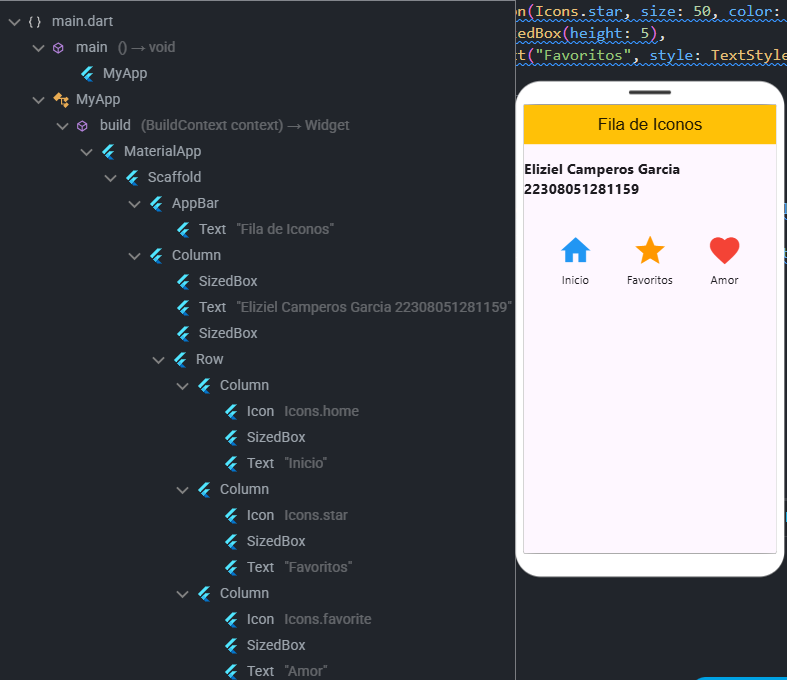
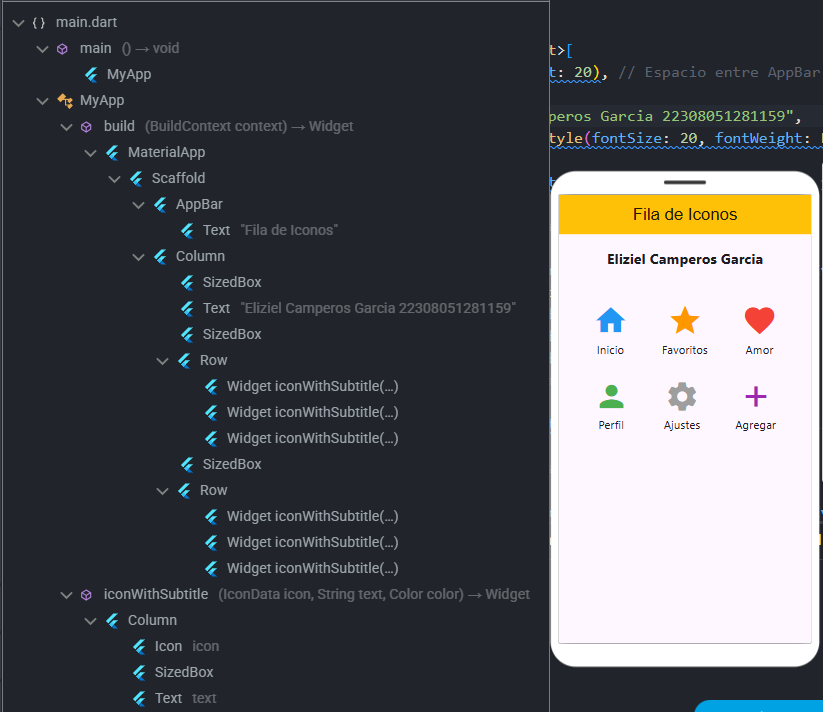
s76742

diff --git a/lib/main.dart b/lib/main.dart
@@ -20,44 +20,45 @@ class MyApp extends StatelessWidget {
           children: <Widget>[
             SizedBox(height: 20), // Espacio entre AppBar y texto
             Text(
-              "Eliziel Camperos Garcia 22308051281159",
+              "Eliziel Camperos Garcia",
               style: TextStyle(fontSize: 20, fontWeight: FontWeight.bold),
             ),
-            SizedBox(height: 50), // Espacio entre texto y fila de iconos
+            SizedBox(height: 50), // Espacio entre texto y filas de iconos
+
+            // Primera fila de iconos
             Row(
               mainAxisAlignment: MainAxisAlignment.spaceEvenly,
               children: <Widget>[
-                // Icono 1 - Casa
-                Column(
-                  children: [
-                    Icon(Icons.home, size: 50, color: Colors.blue),
-                    SizedBox(height: 5), // Espacio entre icono y texto
-                    Text("Inicio", style: TextStyle(fontSize: 16)),
-                  ],
-                ),
+                iconWithSubtitle(Icons.home, "Inicio", Colors.blue),
+                iconWithSubtitle(Icons.star, "Favoritos", Colors.orange),
+                iconWithSubtitle(Icons.favorite, "Amor", Colors.red),
+              ],
+            ),
+            SizedBox(height: 30), // Espacio entre las filas
 
-                // Icono 2 - Estrella
-                Column(
-                  children: [
-                    Icon(Icons.star, size: 50, color: Colors.orange),
-                    SizedBox(height: 5),
-                    Text("Favoritos", style: TextStyle(fontSize: 16)),
-                  ],
-                ),
-
-                // Icono 3 - Corazón
-                Column(
-                  children: [
-                    Icon(Icons.favorite, size: 50, color: Colors.red),
-                    SizedBox(height: 5),
-                    Text("Amor", style: TextStyle(fontSize: 16)),
-                  ],
-                ),
+            // Segunda fila de iconos
+            Row(
+              mainAxisAlignment: MainAxisAlignment.spaceEvenly,
+              children: <Widget>[
+                iconWithSubtitle(Icons.person, "Perfil", Colors.green),
+                iconWithSubtitle(Icons.settings, "Ajustes", Colors.grey),
+                iconWithSubtitle(Icons.add, "Agregar", Colors.purple),
               ],
             ),
           ],
         ),
       ),
+    );
+  }
+
+  // Función para generar iconos con subtítulos
+  Widget iconWithSubtitle(IconData icon, String text, Color color) {
+    return Column(
+      children: [
+        Icon(icon, size: 50, color: color),
+        SizedBox(height: 5), // Espacio entre icono y texto
+        Text(text, style: TextStyle(fontSize: 16)),
+      ],
     );
   }
 }
